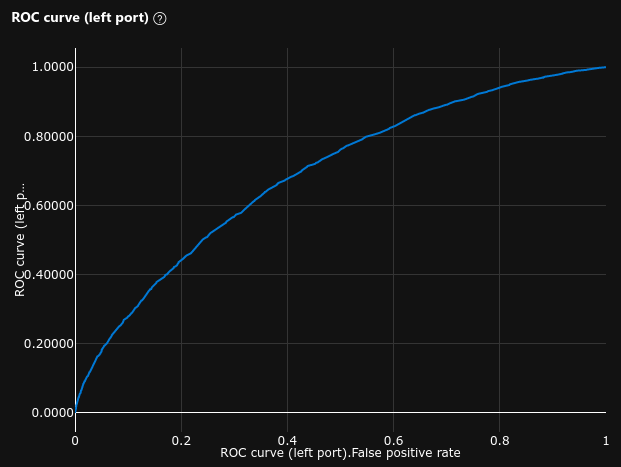
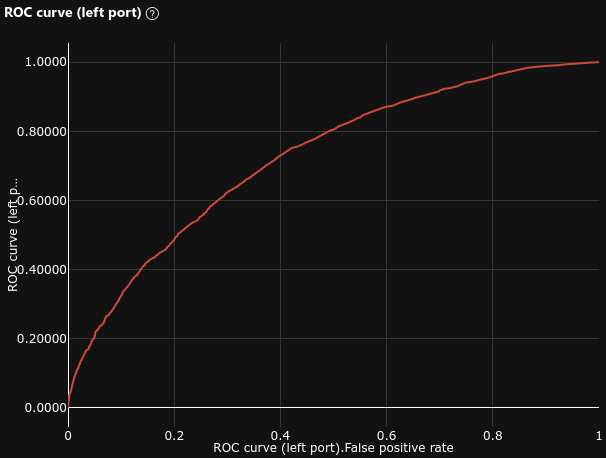
Update Designer notebook

diff --git a/docs/6_azureml_designer.html b/docs/6_azureml_designer.html
@@ -14261,6 +14261,7 @@ a.anchor-link {
 </div><div class="jp-RenderedHTMLCommon jp-RenderedMarkdown jp-MarkdownOutput " data-mime-type="text/markdown">
 <h1 id="AzureML-Studio-:-Designer">AzureML Studio : Designer<a class="anchor-link" href="#AzureML-Studio-:-Designer">&#182;</a></h1><p>In this notebook, we will use the AzureML Studio's <a href="https://docs.microsoft.com/en-us/azure/machine-learning/concept-designer">Designer</a> to design our data processing pipeline.</p>
 <p>The experiment is visible in the AzureML Studio : <a href="https://ml.azure.com/experiments/id/9bde22d7-75e6-41cc-9bfe-03e15873f292?wsid=/subscriptions/da2e4791-6dd1-422b-848a-a961cef6ab89/resourcegroups/OC_P7/workspaces/oc-p7-ml-workspace&amp;tid=43204f6d-c600-4585-985a-6bafda08d2bb">oc-p7-automated-ml</a></p>
+<p><img src="img/azureml_designer_pipeline.png" alt="AzureML Designer - Pipeline"></p>
 <p>We will compare this pre-trained local model to the baseline model from <a href="1_baseline.html">1_baseline.ipynb</a>.</p>
 
 </div>
@@ -14269,7 +14270,7 @@ a.anchor-link {
 </div><div class="jp-RenderedHTMLCommon jp-RenderedMarkdown jp-MarkdownOutput " data-mime-type="text/markdown">
 <h2 id="Text-preprocessing">Text preprocessing<a class="anchor-link" href="#Text-preprocessing">&#182;</a></h2><p>Before training our models, the data is prepared as follow :</p>
 <ul>
-<li>data is sampled to 1% of the original data (stratified according to the target variable)</li>
+<li>data is sampled to 2% of the original data (stratified according to the target variable)</li>
 <li>text is processed :<ul>
 <li>expand verb contractions</li>
 <li>remove stop words</li>
@@ -14338,17 +14339,17 @@ a.anchor-link {
 <tr>
 <td>Feature Hashing</td>
 <td><img src="img/azureml_designer_feature_hashing_confusion_matrix.png" alt="Confusion Matrix"></td>
-<td>0.637</td>
+<td>0.663</td>
 <td><img src="img/azureml_designer_feature_hashing_precision_recall_curve.png" alt="Precision Recall Curve"></td>
-<td>0.691</td>
+<td>0.726</td>
 <td><img src="img/azureml_designer_feature_hashing_ROC_curve.png" alt="ROC Curve"></td>
 </tr>
 <tr>
 <td>N-Gram Features</td>
 <td><img src="img/azureml_designer_n-gram_confusion_matrix.png" alt="Confusion Matrix"></td>
-<td>0.696</td>
+<td>0.723</td>
 <td><img src="img/azureml_designer_n-gram_precision_recall_curve.png" alt="Precision Recall Curve"></td>
-<td>0.775</td>
+<td>0.811</td>
 <td><img src="img/azureml_designer_n-gram_ROC_curve.png" alt="ROC Curve"></td>
 </tr>
 </tbody>
@@ -14356,10 +14357,10 @@ a.anchor-link {
 <p>We can see that the N-Gram Features model performs better than the Feature Hashing model.</p>
 <p>The performances on the dataset are similar to our baseline model :</p>
 <ul>
-<li>Average Precision = 0.696 (baseline = 0.73 , -4.1%)</li>
-<li>ROC AUC = 0.775 (baseline = 0.74 , +4.7%)</li>
+<li>Average Precision = 0.723 (baseline = 0.73 , -1%)</li>
+<li>ROC AUC = 0.811 (baseline = 0.74 , +9.6%)</li>
 </ul>
-<p>Unlike our baseline model, this model is quite balanced, just slightly biased towards the <em>POSITIVE</em> class. It is much less biased than our baseline model : it predicted 5.6% (baseline = 35% , -84%) more <em>POSITIVE</em> (4109) messages than <em>NEGATIVE</em> (3891).</p>
+<p>Unlike our baseline model, this model is quite balanced, just slightly biased towards the <em>POSITIVE</em> class. It is much less biased than our baseline model : it predicted 6.8% (baseline = 35% , -81%) more <em>POSITIVE</em> (3305) messages than <em>NEGATIVE</em> (3095).</p>
 
 </div>
 </div>
